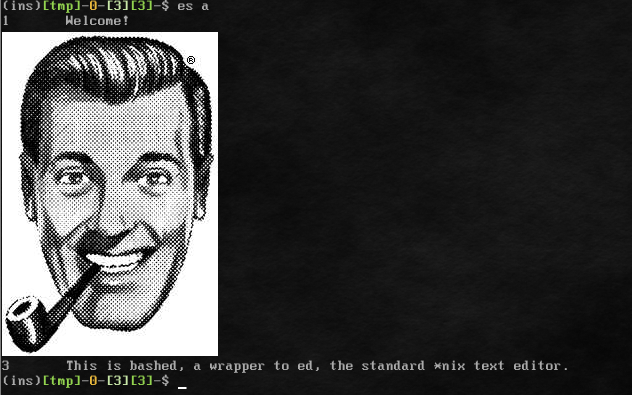
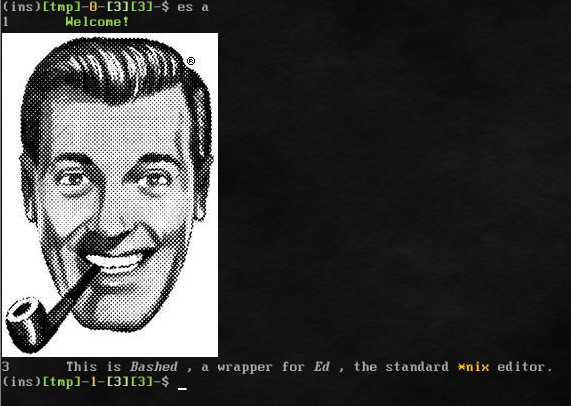
update

Changed region(s): [[0.0, 0.0, 0.9527, 1.0]]

diff --git a/README.md b/README.md
@@ -59,17 +59,24 @@ edty=0
 ````
 
 ### Syntax highlight:
-Syntax highlight comes enables by default.  To disable, add to your ~/.bashrc, after the sourcing:
+Syntax highlight are enabled by default.  To disable, add to your ~/.bashrc, after the sourcing:
 
 ````
 edsyntax=0
 ````
 
 ### Images:
-Images comes enabled by default.  To disable, add to your ~/.bashrc, after the sourcing:
+Images are enabled by default.  To disable, add to your ~/.bashrc, after the sourcing:
 
 ````
 edimg=0
+````
+
+### Escape sequences:
+Escape sequences are enabled by default.  To disable, add to your ~/.bashrc, after sourcing:
+
+````
+edesc=0
 ````
 
 ### Optional, prompt:
@@ -627,6 +634,39 @@ And here's how it looks in terminology, using tycat:
 
 Images can be disabled by setting the variable edimg to 0.
 
+### Escape sequences:
+Bashed have a special syntax that allows it to pass escape sequences to the terminal.  The syntax is:
+[[ followed by '\033[', followed by the escape code, space, '\033[', the escape finalization, and ]].  For example:
+
+````
+[[\033[31m test \033[0m]]
+````
+
+#### Spaces after the escape sequence:
+By default, a space will be added at the end of the escape sequence.  To prevent this, you can place a '\E ' before the escape sequence.  For example:
+
+````
+\E [[\033[31m test \033[0m]] , word
+````
+
+This will place the escape sequence and the comma together, without spaces in the middle.
+
+#### Two or more spaces in lines containing escape sequences:
+The space is used as the word delimiter when parsing lines containing escape sequences.  For that reason, spaces will be collapsed, that is, two or more space characters in sequence will become one space character.  To use extra spaces, you can place a '\S'.  For example:
+
+````
+[[\033[31m test \033[0m]] \S word
+````
+
+That will place a extra space between the escape sequence containing test, and the word 'word'.  To place more than one:
+
+````
+[[\033[31m test \033[0m]] \S \S word
+````
+
+#### Hiding the escape sequences:
+Sometimes it will be useful to hide the escape sequences, for example when you want to pass the text to a command.  To do this, you set the variable edesch to 1.
+
 ### Multimedia:
 If you are using Bashed with Terminology, you can view the all the media files in a text file using the command emq.  It will call tyq with all media files present in a text file, like images, audio, and video.
 
@@ -685,6 +725,13 @@ Set if es should use syntax.  By default, 1.  Should be 1, or 0.
 
 ##### hitheme:
 Contains the theme name used by highlight.
+
+#### Escape sequences:
+##### edesc:
+Controls if escape sequences should be interpreted,  By default, 1.  Should be 1, or 0.
+
+##### edesch:
+Controls if escape sequences shoud be displayed.  By default, 0.  Should be 0, or 1.
 
 ### Using e:
 Commands can be passed directly to ed, using e, like:
@@ -769,7 +816,7 @@ The functions are:
 - editlevel, el: count tab indentation;
 - editlocate, efl: find line;
 - editmediaqueue, emq: show all media files in a text file when using Terminology.
-- emore, scroll file forward using more;
+- editmore, emore, scroll file forward using more;
 - editmove, em: move lines;
 - editopen, eo: open file;
 - editread, er: read a region of file, and store in ~/.edit/readlines
